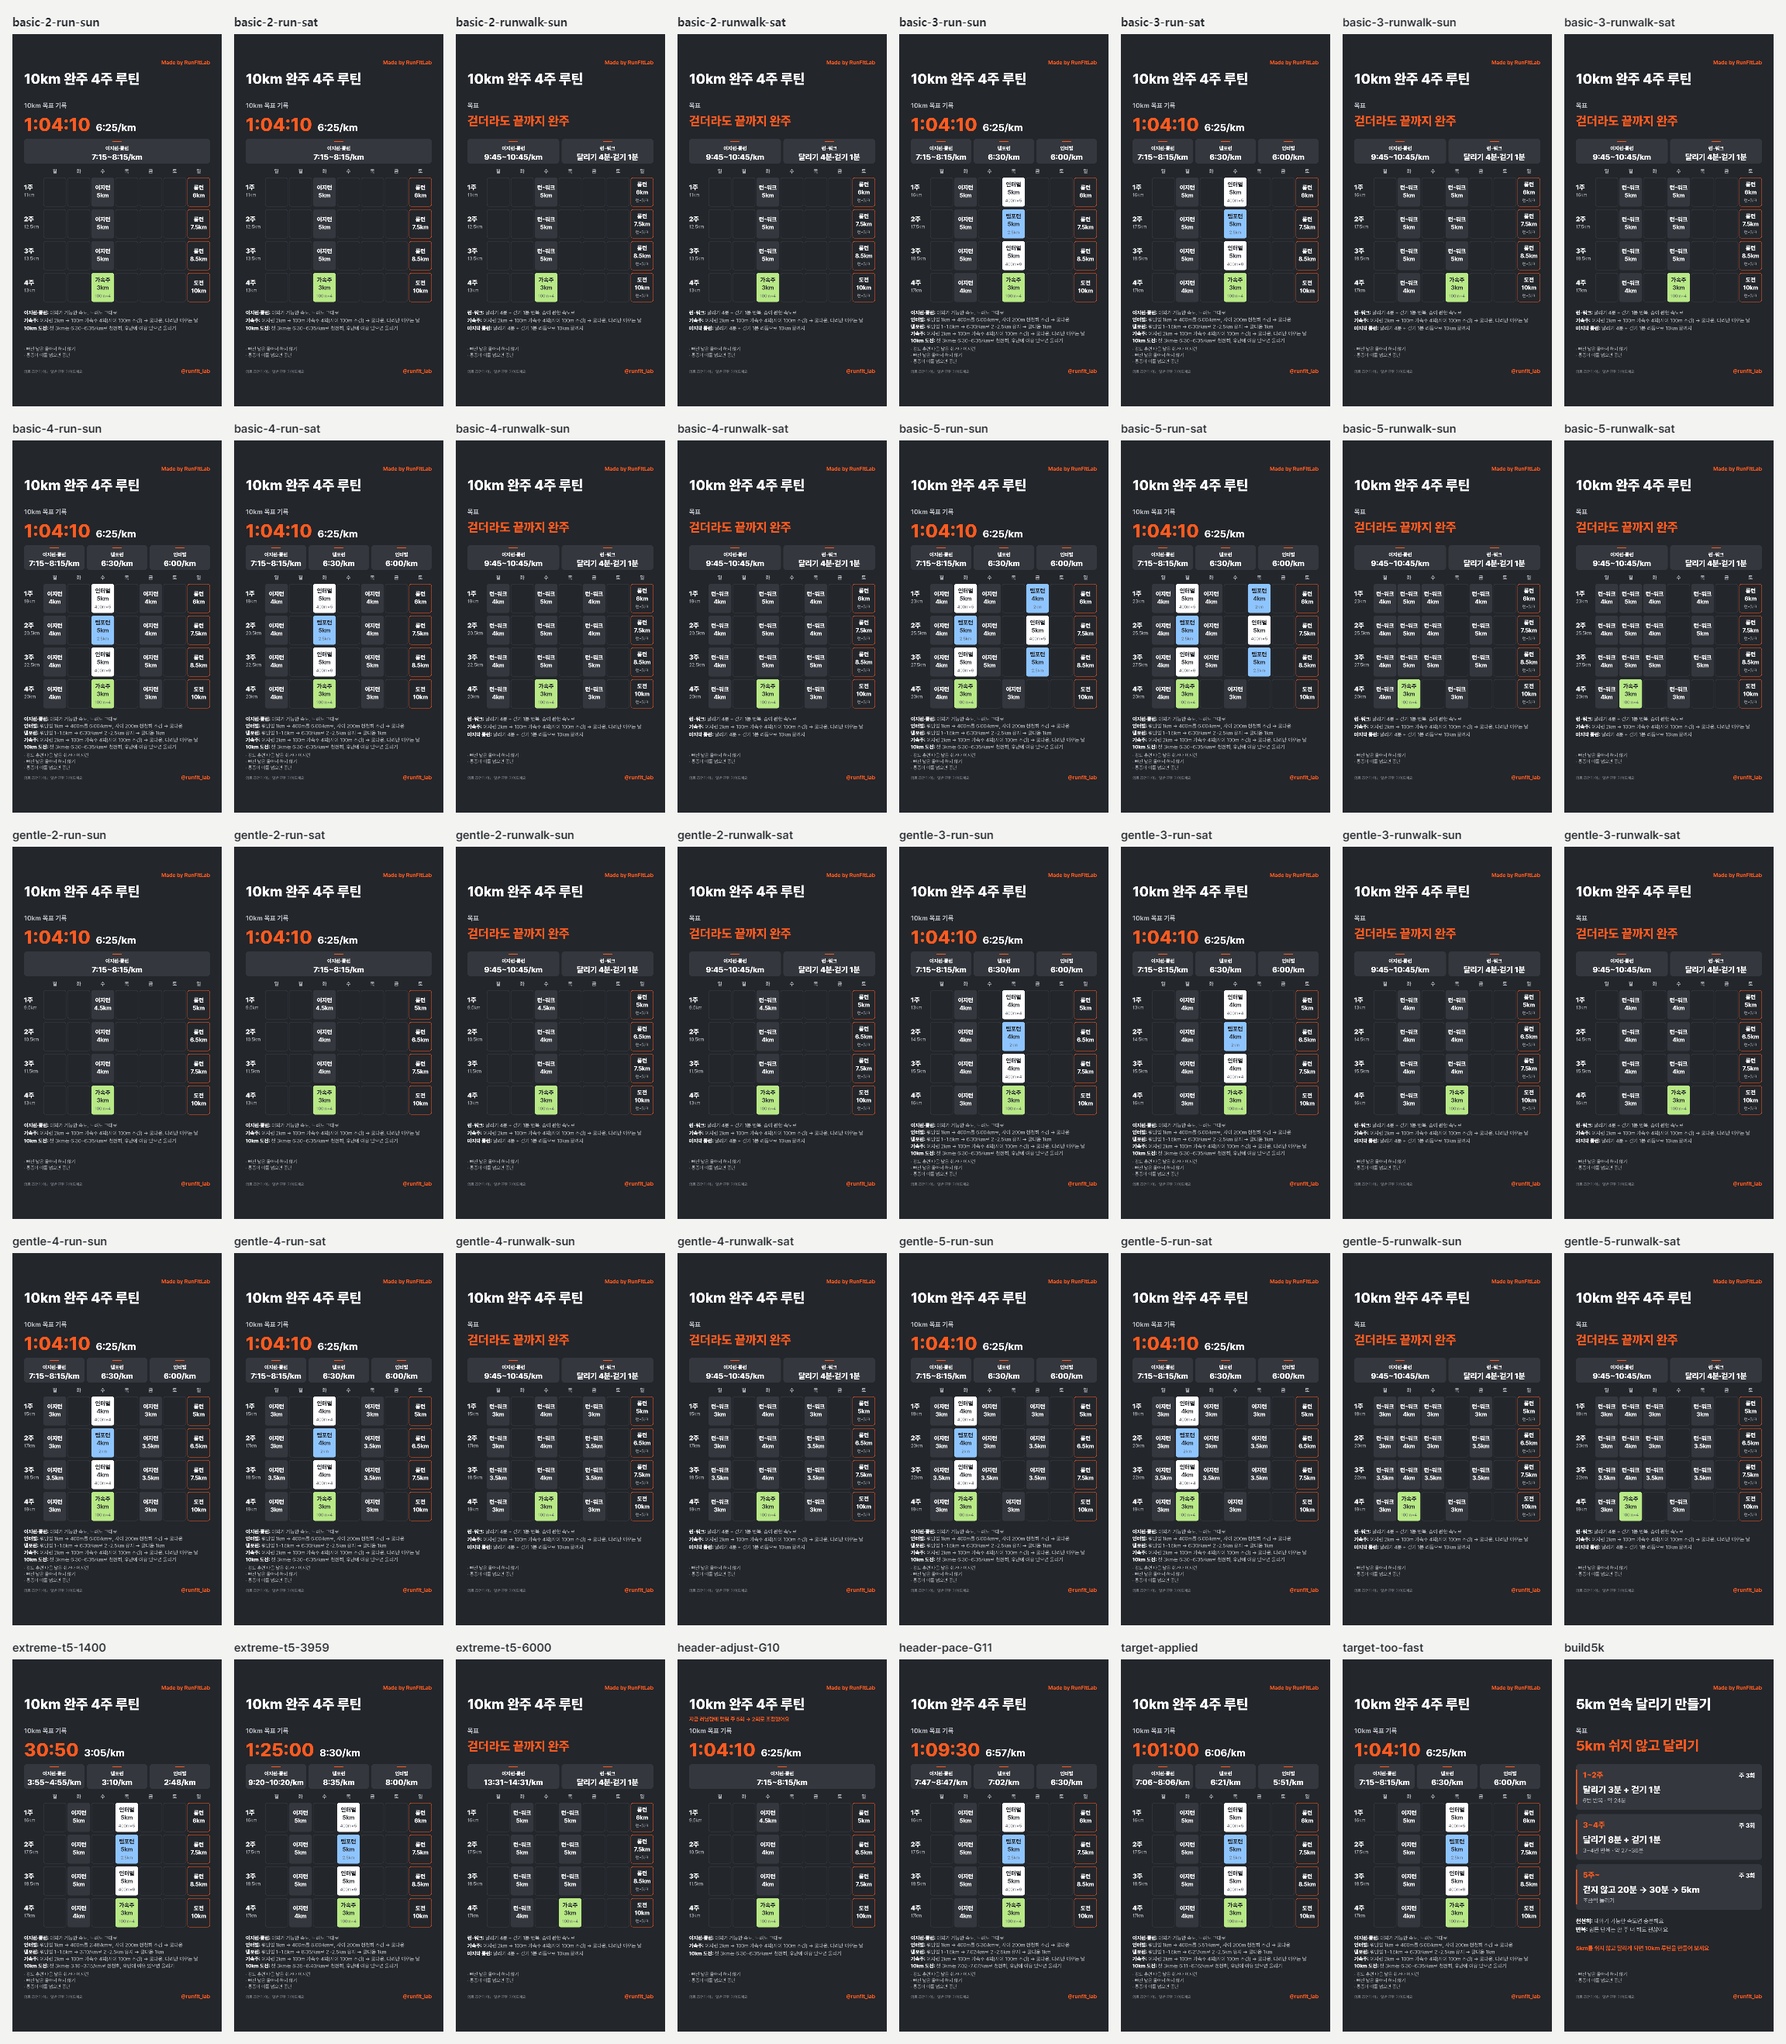
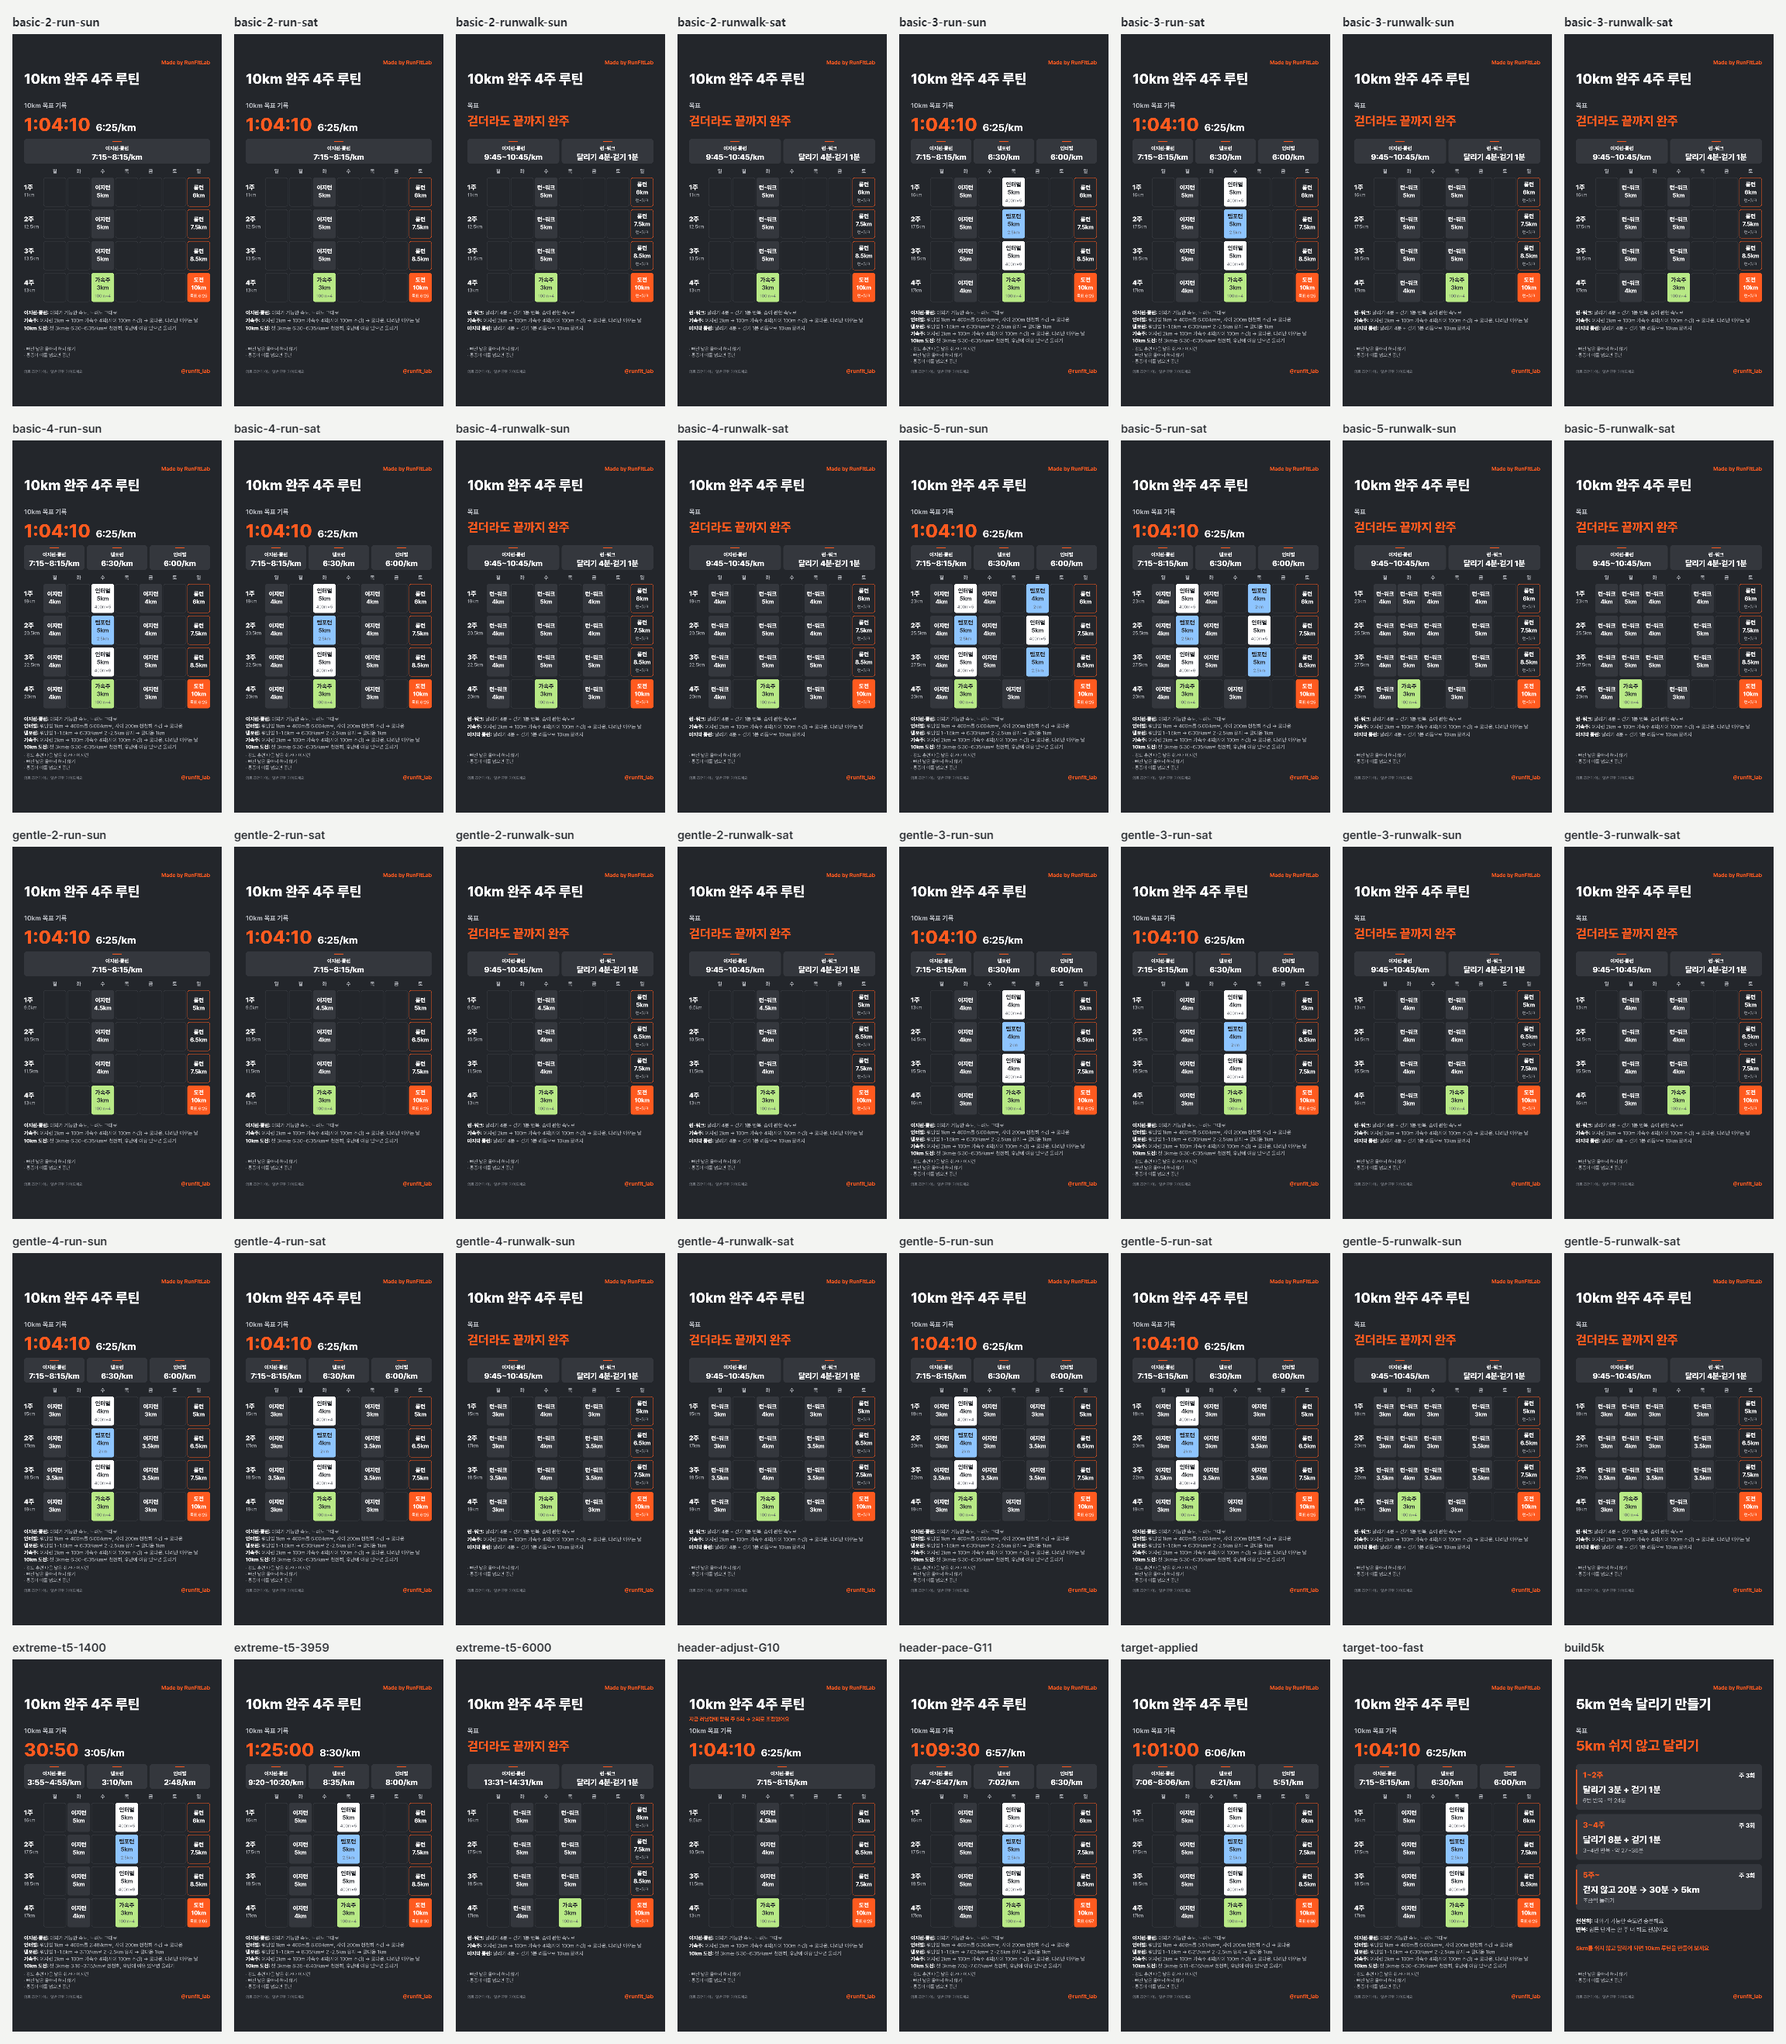
Restyle last-week 도전 cell with brand orange and 목표 pace
- Fill the final long-run cell with the brand orange token (C.orange)
- White label and 10km; sub line shows 목표 {goal pace} at 90% opacity
- Only the final-week cell is affected; other cells and layout unchanged

diff --git a/plan/10k/render.js b/plan/10k/render.js
@@ -17,6 +17,7 @@ const C = {
   easyFill: "#34373D",
   charcoal: "#23262B",
   restLine: "#3A3D43",
+  white90: "rgba(255, 255, 255, 0.9)",  // 주황 칸 보조 글씨 (불투명도 90%)
   intervalFill: "#FFFFFF",  // 인터벌: 흰색
   tempoFill: "#8EC5FF",     // 템포런: 하늘색
   sharpenFill: "#B8E986",   // 가속주: 연두색
@@ -175,15 +176,23 @@ export function layout(plan, measure, opts = {}) {
       if (cell.kind === "easy") rect(x, y, CAL.colW, CAL.rowH, 12, { fill: C.easyFill });
       else if (cell.kind === "quality") { rect(x, y, CAL.colW, CAL.rowH, 12, { fill: qualityFill(cell.sessionId) }); fg = C.charcoal; subColor = "#5C6068"; }
       // 마지막 롱런도 다른 롱런과 같은 모양
-      else if (cell.kind === "long" || cell.kind === "final") rect(x + 1, y + 1, CAL.colW - 2, CAL.rowH - 2, 12, { stroke: C.orange, lineWidth: 2 });
+      else if (cell.kind === "long") rect(x + 1, y + 1, CAL.colW - 2, CAL.rowH - 2, 12, { stroke: C.orange, lineWidth: 2 });
+      // 마지막 주 도전 칸: 브랜드 주황 채움. 보조 글씨는 목표 페이스 (런-워크면 cellSub 그대로)
+      else if (cell.kind === "final") {
+        rect(x, y, CAL.colW, CAL.rowH, 12, { fill: C.orange });
+        subColor = C.white90;
+      }
+
+      let sub = cell.cellSub;
+      if (cell.kind === "final" && !plan.runWalk) sub = `목표 ${formatPace(plan.pace.goal)}`;
 
       const cx = x + CAL.colW / 2;
       const maxW = CAL.colW - CAL.cellPad * 2;
-      const top = cell.cellSub ? y + 46 : y + 62;
+      const top = sub ? y + 46 : y + 62;
       text(`${id}.label`, [{ text: cell.cellLabel, color: fg }], { x: cx, y: top, weight: 800, size: 30, minSize: 26, maxWidth: maxW, align: "center" });
       text(`${id}.km`, [{ text: `${cell.km}km`, color: fg }], { x: cx, y: top + 40, weight: 700, size: 30, minSize: 26, maxWidth: maxW, align: "center" });
-      if (cell.cellSub) {
-        text(`${id}.sub`, [{ text: cell.cellSub, color: subColor }], { x: cx, y: top + 80, weight: 400, size: 22, minSize: 20, maxWidth: maxW, align: "center" });
+      if (sub) {
+        text(`${id}.sub`, [{ text: sub, color: subColor }], { x: cx, y: top + 80, weight: 400, size: 22, minSize: 20, maxWidth: maxW, align: "center" });
       }
     });
   });
